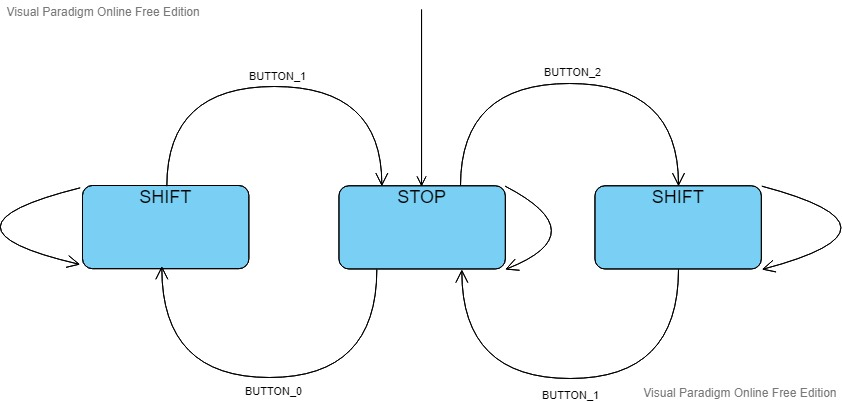
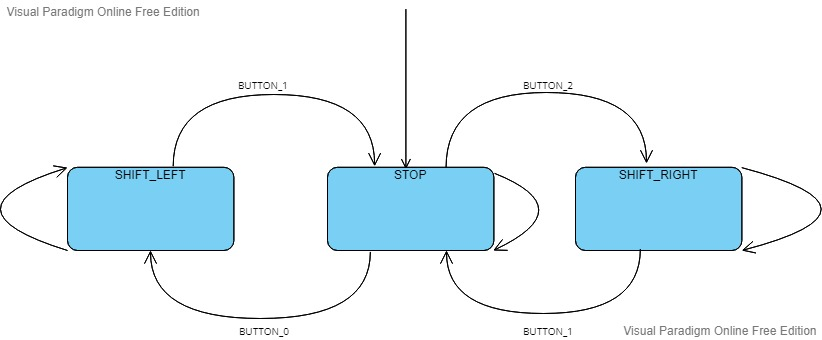
Modify program - accepted

diff --git a/Current/Zieba_AUTOMATY/main.c b/Current/Zieba_AUTOMATY/main.c
@@ -2,13 +2,16 @@
 #include "keyboard.h"
 
 void Delay(unsigned int uiDelayMilliseconds);
-
+extern void LedOn(unsigned char ucLedIndeks);
 
 
 int main()
 {
-	enum LedState {STOP, SHIFT_RIGHT, SHIFT_LEFT};
+	enum LedState {STOP, SHIFT_RIGHT, SHIFT_LEFT, BLINK};
 	enum LedState eLedState = SHIFT_RIGHT;
+
+	unsigned char ucBlinkCounter = 0;
+	unsigned char fBlinkLedState = 0;
 
 	LedInit();
 
@@ -45,7 +48,11 @@ int main()
 				break;
 				
 			case SHIFT_LEFT:
-				if(BUTTON_1 == eKeyboardRead())
+				if(BUTTON_3 == eKeyboardRead())
+				{
+					eLedState = BLINK;
+				}
+				else if(BUTTON_1 == eKeyboardRead())
 				{
 					eLedState = STOP;
 				}
@@ -56,6 +63,29 @@ int main()
 				}
 				break;
 			
+			case BLINK:
+				if(ucBlinkCounter > 10)
+				{
+					ucBlinkCounter = 0;
+					eLedState = SHIFT_RIGHT;
+				}
+				else
+				{
+					if(0 == fBlinkLedState)
+					{
+						LedOn(1);
+						fBlinkLedState = 1;
+					}
+					else
+					{
+						LedOn(4); 
+						fBlinkLedState = 0;
+					}
+					
+					ucBlinkCounter++;
+					eLedState = BLINK;
+				}
+				
 			default:
 				break;
 		}
